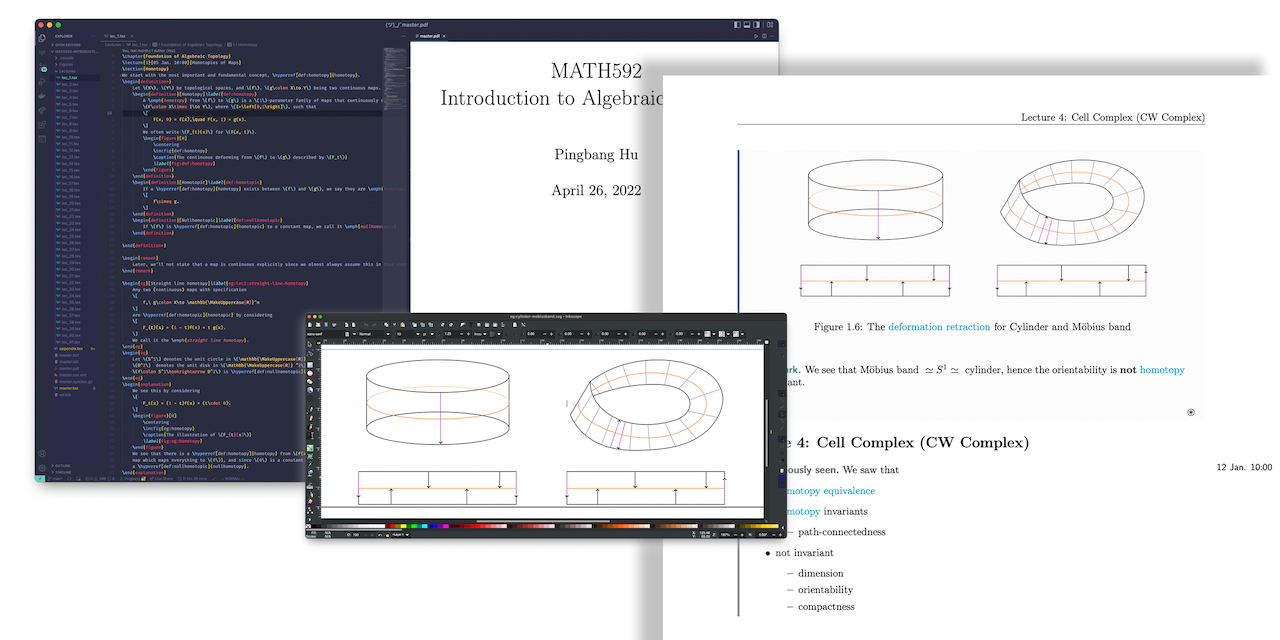
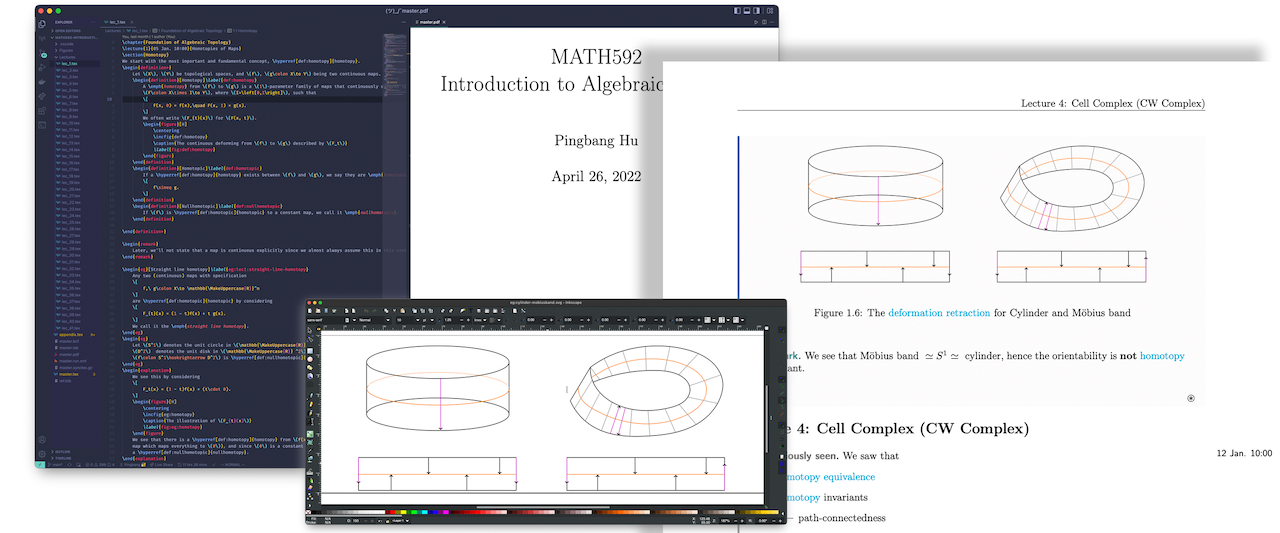
📍[main/preview] preview uploaded

diff --git a/README.md b/README.md
@@ -1,7 +1,11 @@
 # Notes @umich
 
+<p align="center">
+	<img src="https://github.com/sleepymalc/Notes/blob/main/preview.png"/>
+</p>
+
 <p align="center"><b><i>
-	The source code of my LaTeX lecture notes.
+	The Source Code of my LaTeX Lecture Notes.
 </i></b></p>
 
 ## Abstract
